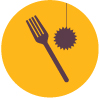
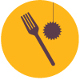
Changing dedia page

diff --git a/themes/coworker/katakrak.css b/themes/coworker/katakrak.css
@@ -627,11 +627,13 @@ html.js input.throbbing {
 /* ----------------------------------------------------------------
     Kantina page
 -----------------------------------------------------------------*/
-.kantina-page .kantina_navigation a {
-  position: absolute;
-  bottom: 0;
-  padding-top: 90px;
+.kantina-page .kantina_logo {
   text-align: center;
+}
+.kantina-page .kantina_navigation .navigation-element {
+  text-align: center;
+}
+.kantina-page .kantina_navigation a {
   color: #777777;
 }
 .kantina-page .kantina_navigation a.active {
@@ -640,28 +642,28 @@ html.js input.throbbing {
 .kantina-page .view-kantina {
   margin-top: 40px;
 }
-.node-eguneko-menua {
+.kantina-page .dedia_divider {
+  background-color: #FEB71A;
+  height: 5px;
+}
+.eguneko-menua {
   background-color: #FFE9BA;
+  text-align: center;
 }
-.pricing-title h4 {
-  font-size: 19px;
-  line-height: 24px;
+.eguneko-menua h2 {
+  text-transform: uppercase;
   font-weight: bold;
-  padding-bottom: 0;
-  color: #444;
+  margin: 20px 0 9px 0;
+  padding: 0;
 }
-.pricing-features li {
-  font-size: 14px;
+.eguneko-menua p {
+  margin-bottom: 10px;
 }
-.pricing-features li:first-child {
-  border-top: 1px solid #EEE;
+.eguneko-menua .subseccion {
+  padding-top: 5px;
 }
 #block-views-kantina-block-page h2 {
   text-align: center;
-}
-.kantina_logo {
-  text-align: center;
-  margin-bottom: 100px;
 }
 /** Search Page **/div.search-page-ol-left div.panel-pane {
   background: #d0d0d0;
@@ -986,19 +988,6 @@ Irakurle taldeak
 .pane-views-ciclos-block .pane-content,
 .pane-views-libros-libros-grupo-lectura .pane-content {
   margin-top: 10px;
-}
-/*******************************************************************************
-Eguneko menuak
-*******************************************************************************/
-.eguneko-menua {
-  text-align: center;
-}
-.eguneko-menua h2 {
-  text-transform: uppercase;
-  font-weight: bold;
-}
-.eguneko-menua p {
-  margin-bottom: 10px;
 }
 /*******************************************************************************
 Responsiveness

diff --git a/themes/coworker/katakrak.less b/themes/coworker/katakrak.less
@@ -725,12 +725,14 @@ html.js input.throbbing {
 
 
 .kantina-page {
-  .kantina_navigation { 
-    a {
-      position: absolute;
-      bottom: 0;
-      padding-top: 90px;
+  .kantina_logo {
+    text-align: center;
+  }
+  .kantina_navigation {
+    .navigation-element {
       text-align: center;
+    }
+    a {
       color: @link_gray;
     }
     a.active {
@@ -740,30 +742,26 @@ html.js input.throbbing {
   .view-kantina {
     margin-top: 40px;
   }
-}
-
-.node-eguneko-menua {
-  background-color: #FFE9BA;
-} 
-
-
-
-
-
-.pricing-title h4 {
-  font-size: 19px;
-  line-height: 24px;
-  font-weight: bold;
-  padding-bottom: 0;
-  color: #444;
-}
-
-.pricing-features{
-  li {
-    font-size: 14px;
+  .dedia_divider {
+    background-color: #FEB71A;
+    height: 5px;
   }
-  li:first-child {
-    border-top: 1px solid #EEE;
+}
+
+.eguneko-menua {
+  background-color: #FFE9BA;
+  text-align: center;
+  h2 {
+    text-transform: uppercase;
+    font-weight: bold;
+    margin: 20px 0 9px 0;
+    padding: 0;
+  }
+  p {
+    margin-bottom: 10px;
+  }
+  .subseccion {
+    padding-top: 5px;
   }
 }
 
@@ -771,10 +769,7 @@ html.js input.throbbing {
   text-align: center;
 }
 
-.kantina_logo {
-  text-align: center;
-  margin-bottom: 100px;
-}
+
 /** Search Page **/ 
 
 div.search-page-ol-left div.panel-pane {
@@ -1005,20 +1000,6 @@ Irakurle taldeak
   }
   .pane-content {
     margin-top: 10px;
-  }
-}
-
-/*******************************************************************************
-Eguneko menuak
-*******************************************************************************/
-.eguneko-menua {
-  text-align: center;
-  h2 {
-    text-transform: uppercase;
-    font-weight: bold;
-  }
-  p {
-    margin-bottom: 10px;
   }
 }
 

diff --git a/themes/coworker/sprite.css b/themes/coworker/sprite.css
@@ -1,24 +1,23 @@
-.dedia, .denoche, .kantina_blog, .circulo_ficha, .flecha_dcha, .mParada, .uparada, .correspondencia, .circulo_trans2, .submenu, .mainsubmenu, .mainsubmenuh, .banda_header, .banda_footer, .begiak{
-       background: url("images/sprite.png") no-repeat;
+.dedia, .denoche, .kantina_blog, .circulo_ficha, .flecha_dcha, .mParada, .uparada, .correspondencia, .circulo_trans2, .submenu, .mainsubmenu, .mainsubmenuh, .banda_header, .banda_footer, .begiak, .menu_mediodia{
+       background: url("images/sprites.png") no-repeat;
 }
-
 .dedia{
-  background-position: -92px -5px;
-  width: 70px;
+  background-position: -98px 0;
+  width: 80px;
   height: 110px;
   margin-left: 33.33333333%;
 }
 
 .denoche{
-  background-position: -191px 0;
+  background-position: 0 0;
   width: 90px;
   height: 110px;
   margin-left: 33.33333333%;
 }
 
 .kantina_blog {
-  background-position: -5px -3px ;
-  width: 70px;
+  background-position: -192px 0;
+  width: 80px;
   height: 110px;
   margin-left: 33.33333333%;
 }
@@ -93,4 +92,10 @@
 	background-position: -529px -163px ;
 	width: 98px;
 	height: 26px;
+}
+
+.menu_mediodia{
+  background-position: 0 -251px;
+  width: 75px;
+  height: 75px;
 }

diff --git a/themes/coworker/templates/node--eguneko_menua.tpl.php b/themes/coworker/templates/node--eguneko_menua.tpl.php
@@ -89,31 +89,42 @@ if (!$page) {
         <h2<?php print $title_attributes; ?>><a href="<?php print $node_url; ?>"><?php print $title; ?></a></h2>
       </div>
     <?php endif; ?>
-    <?php
-    if ($page && $node->type == 'blog'):
-      ?>
-      <div class="entry_title">
-        <h2<?php print $title_attributes; ?>><?php print $title; ?></h2>
-      </div>
-    <?php endif; ?>
 
     <?php print render($title_suffix); ?>
 
     <div class="entry_content content eguneko-menua"<?php print $content_attributes; ?>>
-      <h1><i class="fa fa-spoon"></i> <?php print $node->title ?> <i class="fa fa-cutlery"></i></h1>
+      <div class="subseccion">
+        <?php print theme('image', array('path' => drupal_get_path('theme', 'coworker'). '/images/kantina/desayunos.png')) ?>
+        <h4>desayunos</h4>
+      </div>
+      <?php print $node->field_menu_gosariak['und'][0]['value'] ?>
+      <div class="dedia_divider"></div>
+      <h1 class="hidden"><?php print $node->title ?></h1>
+      <a id="menu_dia"></a>
+      <div class="subseccion">
+        <?php print theme('image', array('path' => drupal_get_path('theme', 'coworker'). '/images/kantina/menu_mediodia.png')) ?>
+        <h4>menú mediodia</h4>
+      </div>
       <p><?php print format_date($node->changed, 'media') ?></p>
-      <h2><?php print t("Fríos") ?></h2>
-      <?php foreach ($node->field_menu_hotzak['und'] as $key => $value): ?>
-      <p><?php print $value['value'] ?></p>
-      <?php endforeach; ?>
-      <h2><?php print t("Calientes") ?></h2>
-      <?php foreach ($node->field_menu_beroak['und'] as $key => $value): ?>
-      <p><?php print $value['value'] ?></p>
-      <?php endforeach; ?>
-      <h2><?php print t("Postres") ?></h2>
-      <?php foreach ($node->field_menu_azkenburukoak['und'] as $key => $value): ?>
-      <p><?php print $value['value'] ?></p>
-      <?php endforeach; ?>
+      <div>
+        <h2><?php print t("Ensaladas") ?></h2>
+        <?php foreach ($node->field_menu_hotzak['und'] as $key => $value): ?>
+          <p><?php print $value['value'] ?></p>
+        <?php endforeach; ?>
+      </div>
+      <div>
+        <h2><?php print t("Cuencos") ?></h2>
+        <?php foreach ($node->field_menu_beroak['und'] as $key => $value): ?>
+          <p><?php print $value['value'] ?></p>
+        <?php endforeach; ?>
+      </div>
+      <div>
+        <h2><?php print t("Postres") ?></h2>
+        <?php foreach ($node->field_menu_azkenburukoak['und'] as $key => $value): ?>
+          <p><?php print $value['value'] ?></p>
+        <?php endforeach; ?>
+      </div>
+      
       
       
       -----------------------------------------------------------------------------------

diff --git a/modules/custom/katakrak_kantina/templates/katakrak-kantina-page-header.tpl.php b/modules/custom/katakrak_kantina/templates/katakrak-kantina-page-header.tpl.php
@@ -4,12 +4,15 @@
 
 <div class="row kantina_navigation">
   <div class="col-md-offset-3 col-md-2 col-xs-4">
-    <h3><?php print $link_dedia ?></h3>
+    <div class="navigation-element"><?php print $link_dedia ?></div>
   </div>
   <div class=" col-md-2 col-xs-4">
-    <h3><?php print $link_denoche ?></h3>
+    <div class="navigation-element"><?php print $link_denoche ?></div>
   </div>
   <div class="col-md-2 col-xs-4">
-    <h3><?php print $link_blog ?></h3>
+    <div class="navigation-element"><?php print $link_blog ?></div>
+  </div>
+  <div class="col-md-3">
+    
   </div>
 </div>
